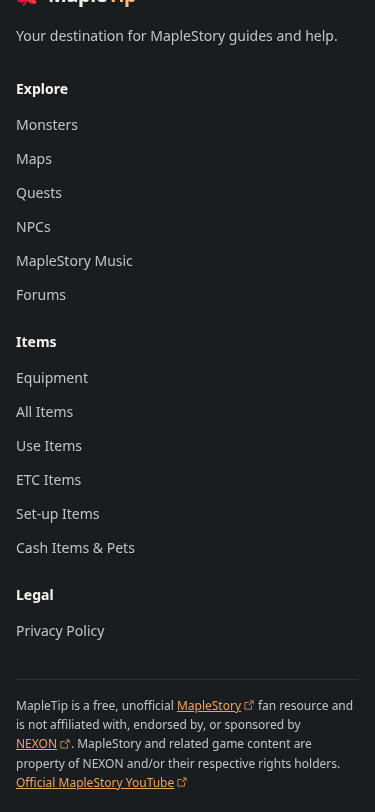
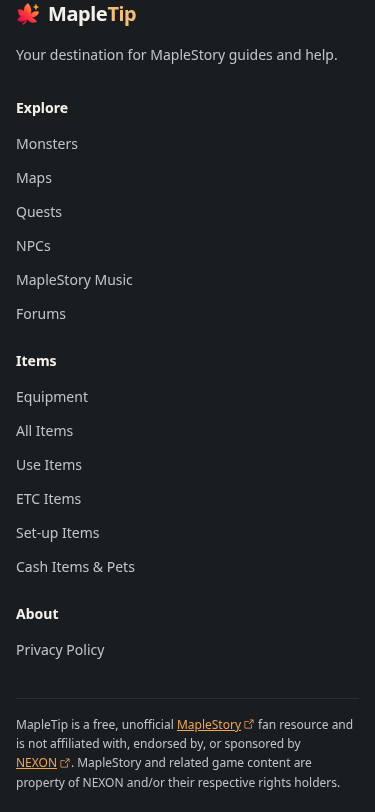
feat(web): rename footer group to About and trim attribution
Use About for the project-information column and remove the Official MapleStory YouTube link from the unofficial fan-site disclaimer at owner request.

Changed region(s): [[0.0293, 0.0, 0.88, 0.8313], [0.0293, 0.8621, 0.9387, 0.9852]]

diff --git a/apps/web/src/components/AppFooter/__tests__/AppFooter.test.tsx b/apps/web/src/components/AppFooter/__tests__/AppFooter.test.tsx
@@ -89,7 +89,7 @@ describe('AppFooter', () => {
       within(navigation)
         .getAllByRole('heading', { level: 2 })
         .map((heading) => heading.textContent),
-    ).toEqual(['Explore', 'Items', 'Legal']);
+    ).toEqual(['Explore', 'Items', 'About']);
 
     const links = within(navigation).getAllByRole('link');
     expect(links.map((link) => link.textContent)).toEqual(
@@ -104,12 +104,14 @@ describe('AppFooter', () => {
     await renderAppFooter();
 
     const links = officialLinks();
-    expect(links).toHaveLength(3);
+    expect(links).toHaveLength(2);
     expect(links.map((link) => link.getAttribute('href'))).toEqual([
       'https://www.nexon.com/maplestory/',
       'https://www.nexon.com/main/en',
-      'https://www.youtube.com/@MapleStory',
     ]);
+    expect(
+      screen.queryByRole('link', { name: /YouTube/u }),
+    ).not.toBeInTheDocument();
 
     for (const link of links) {
       expect(link).toHaveAttribute('rel', 'noopener noreferrer');

diff --git a/apps/web/src/components/AppFooter/AppFooter.tsx b/apps/web/src/components/AppFooter/AppFooter.tsx
@@ -44,15 +44,14 @@ const groups = [
     ],
   },
   {
-    id: 'legal',
-    title: 'Legal',
+    id: 'about',
+    title: 'About',
     links: [{ id: 'privacy', label: 'Privacy Policy', href: '/privacy' }],
   },
 ] satisfies readonly FooterGroup[];
 
 const officialMapleStoryUrl = 'https://www.nexon.com/maplestory/';
 const officialNexonUrl = 'https://www.nexon.com/main/en';
-const officialMapleStoryYouTubeUrl = 'https://www.youtube.com/@MapleStory';
 
 /**
  * The three official attribution links share an intentional new-tab decision
@@ -92,10 +91,7 @@ const legal = (
       <OfficialLink href={officialNexonUrl}>NEXON</OfficialLink>.
     </span>{' '}
     MapleStory and related game content are property of NEXON and/or their
-    respective rights holders.{' '}
-    <OfficialLink href={officialMapleStoryYouTubeUrl}>
-      Official MapleStory YouTube
-    </OfficialLink>
+    respective rights holders.
   </p>
 );
 
